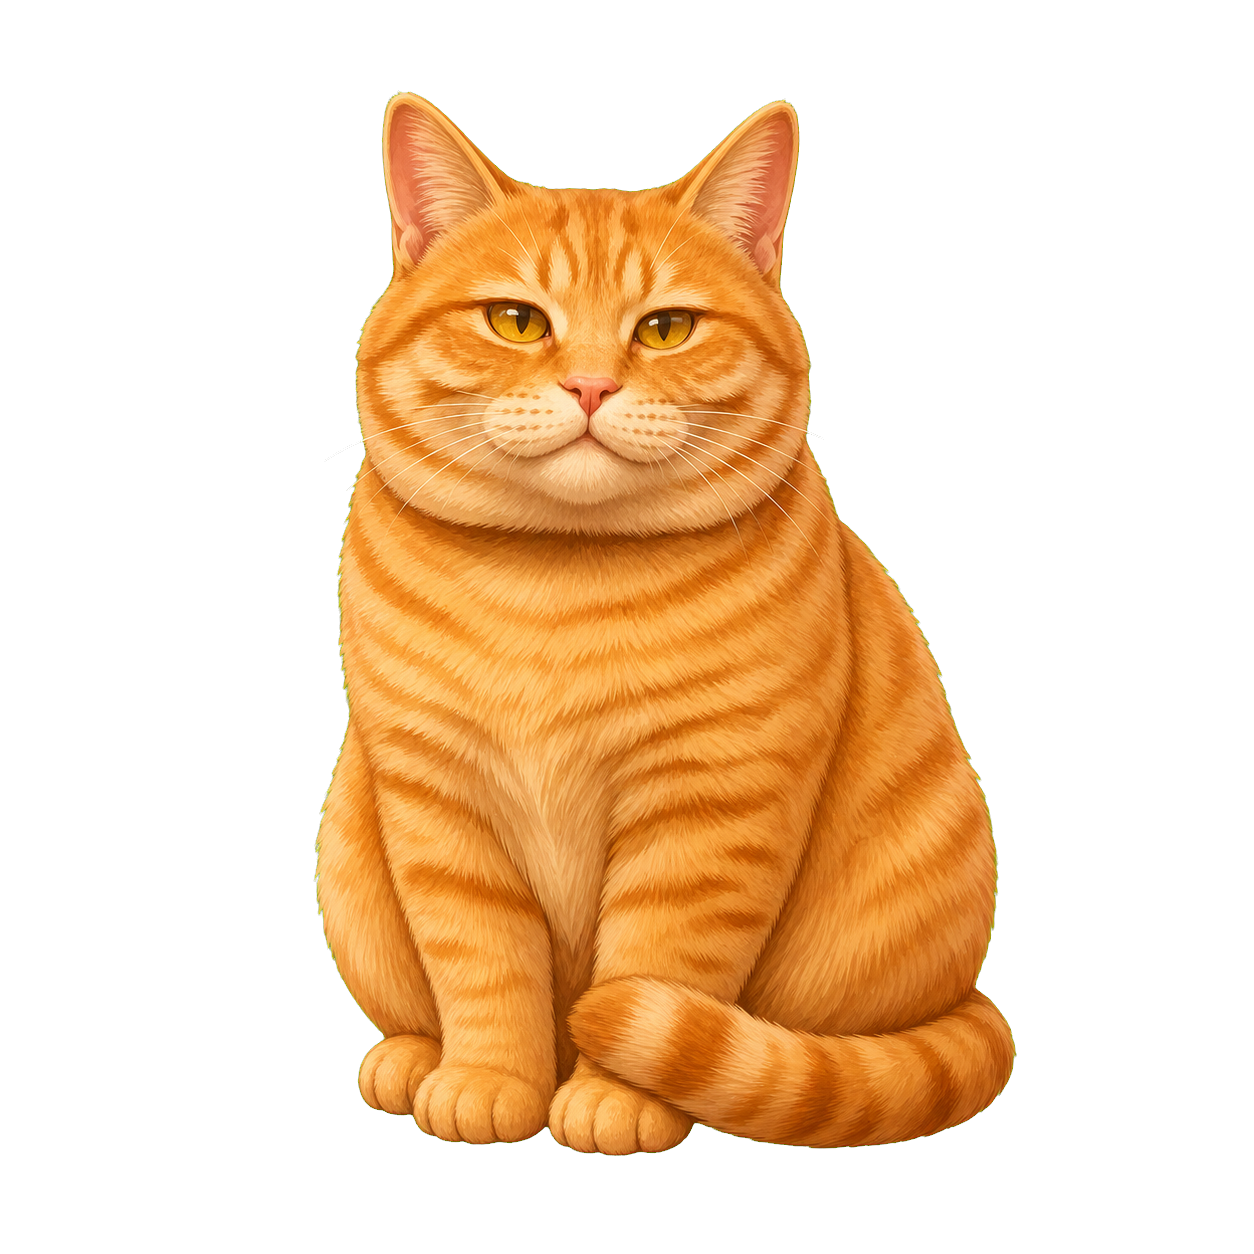
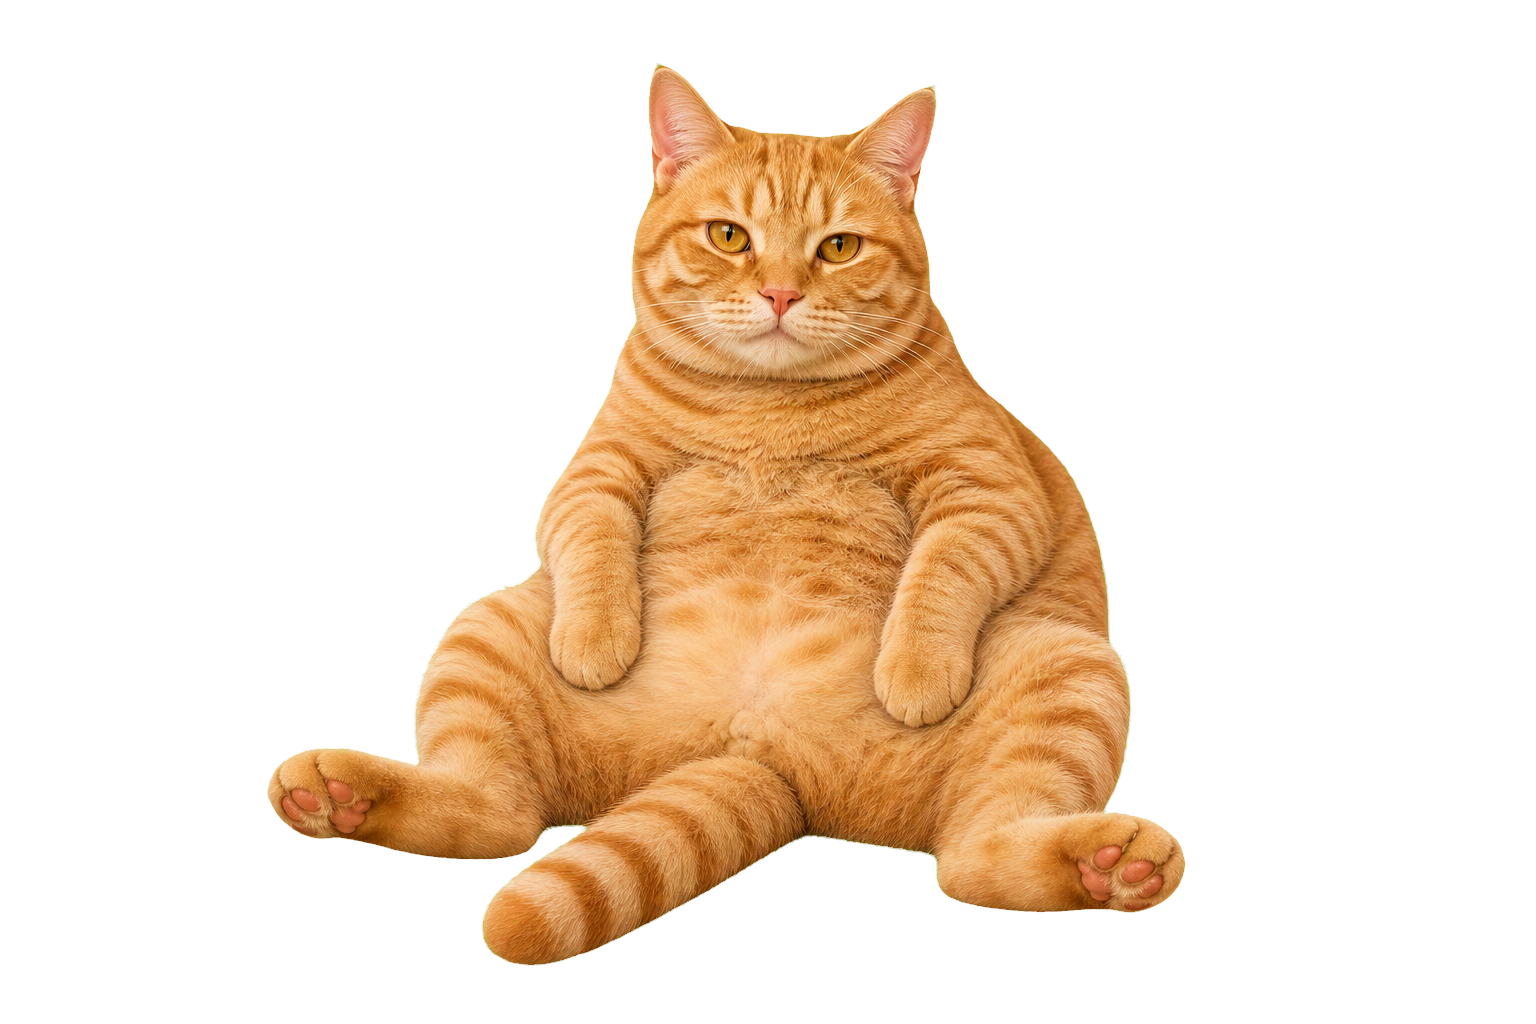
Update CatBreak cat gallery

diff --git a/catbreak/index.html b/catbreak/index.html
@@ -58,6 +58,7 @@
         .cat-list { display: grid; grid-template-columns: repeat(auto-fit, minmax(190px, 1fr)); gap: 16px; }
         .cat-avatar { aspect-ratio: 1; display: grid; place-items: center; background: #f6f1eb; border-radius: 6px; overflow: hidden; margin-bottom: 16px; }
         .cat-avatar img { max-width: 96%; max-height: 96%; object-fit: contain; display: block; }
+        .cat-avatar img.cat-portrait { max-width: 75%; max-height: 75%; }
         .note { background: #2c2925; color: #fff; border-radius: 8px; padding: 34px; }
         .note p { color: rgba(255,255,255,.72); line-height: 1.8; margin: 8px 0 0; }
         .support-card { margin-top: 18px; display: grid; grid-template-columns: minmax(0, 1fr) auto; gap: 20px; align-items: center; background: #fff7ef; border: 1px solid rgba(184,111,69,.18); border-radius: 8px; padding: 26px; }
@@ -158,7 +159,7 @@
                     <div class="cat-card"><div class="cat-avatar"><img src="assets/taige-sturdy.png" alt="泰格"></div><h3>泰格</h3><p>默认出场，稳稳把你带去休息。</p></div>
                     <div class="cat-card"><div class="cat-avatar"><img src="assets/lili.png" alt="丽丽"></div><h3>丽丽</h3><p>温柔出爪，轻轻提醒你眨眨眼。</p></div>
                     <div class="cat-card"><div class="cat-avatar"><img src="assets/daju.png" alt="大橘"></div><h3>大橘</h3><p>份量很足，提醒也很有存在感。</p></div>
-                    <div class="cat-card"><div class="cat-avatar"><img src="assets/rose.png" alt="Rose"></div><h3>Rose</h3><p>优雅值班，把休息说得很自然。</p></div>
+                    <div class="cat-card"><div class="cat-avatar"><img class="cat-portrait" src="assets/rose.png" alt="Rose"></div><h3>Rose</h3><p>优雅值班，把休息说得很自然。</p></div>
                     <div class="cat-card"><div class="cat-avatar"><img src="assets/bingbing.png" alt="冰冰"></div><h3>冰冰</h3><p>灰蓝色东短气质，安静但很有压迫感。</p></div>
                     <div class="cat-card"><div class="cat-avatar"><img src="assets/kiki.png" alt="基基"></div><h3>基基</h3><p>大耳朵、小胡子，认真问你还要不要继续坐着。</p></div>
                     <div class="cat-card"><div class="cat-avatar"><img src="assets/niuniu.png" alt="牛牛"></div><h3>牛牛</h3><p>黑白小东短，呆呆看着你：还不休息吗？</p></div>